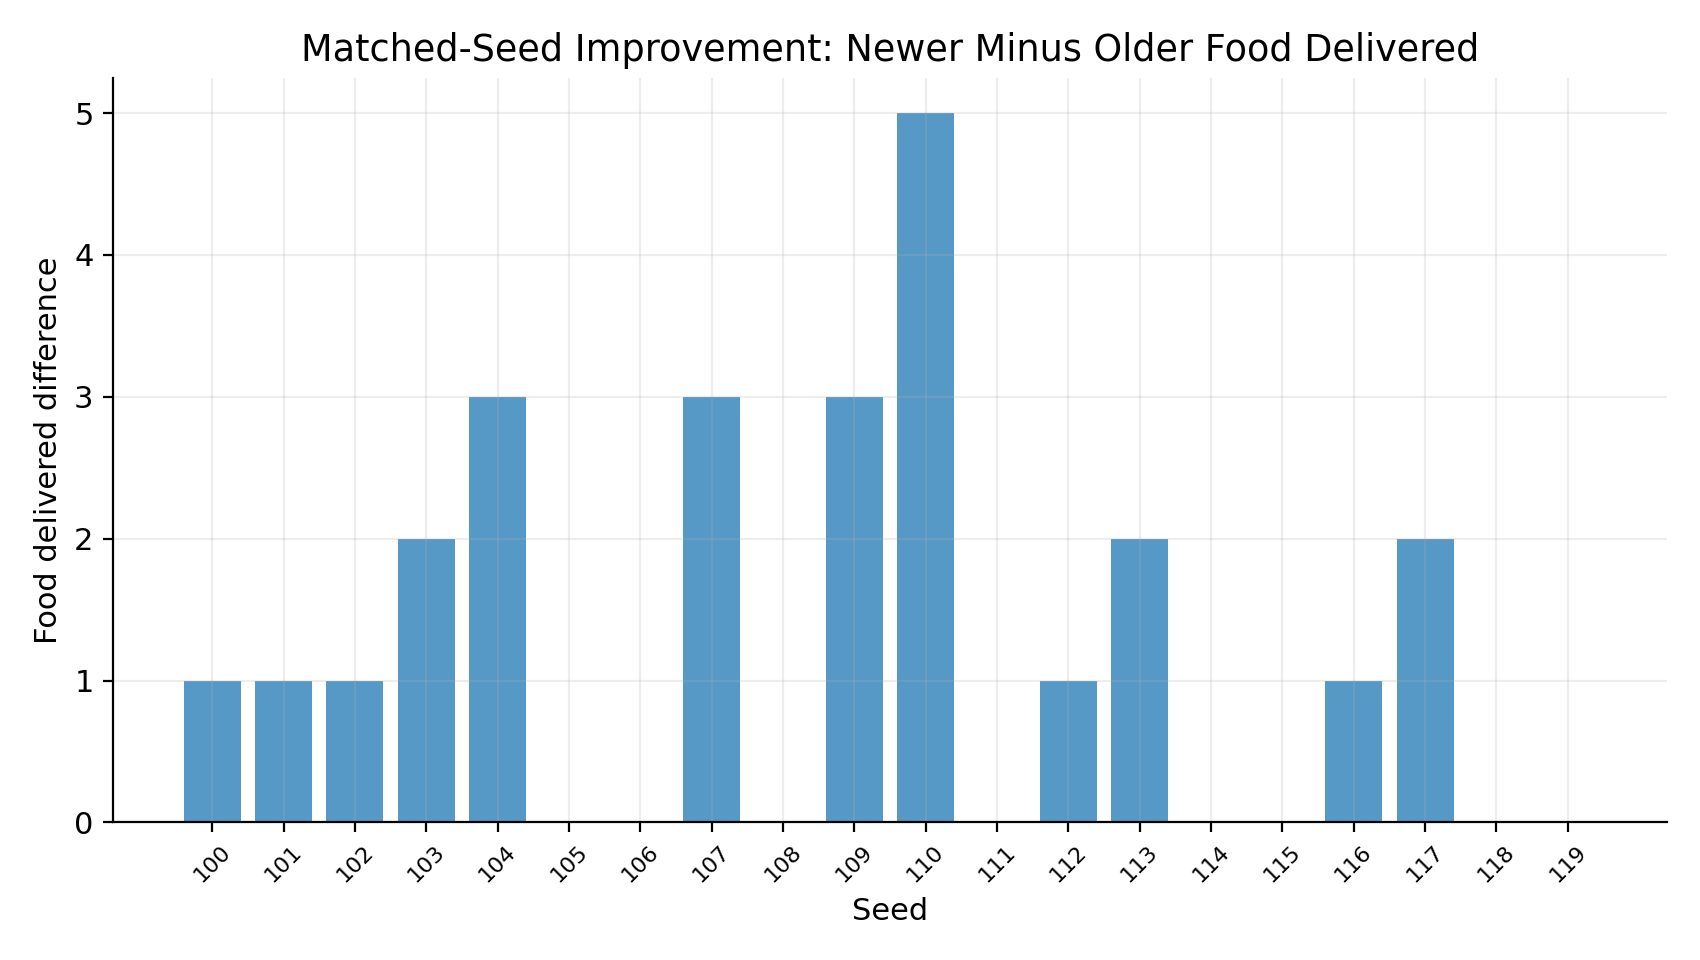
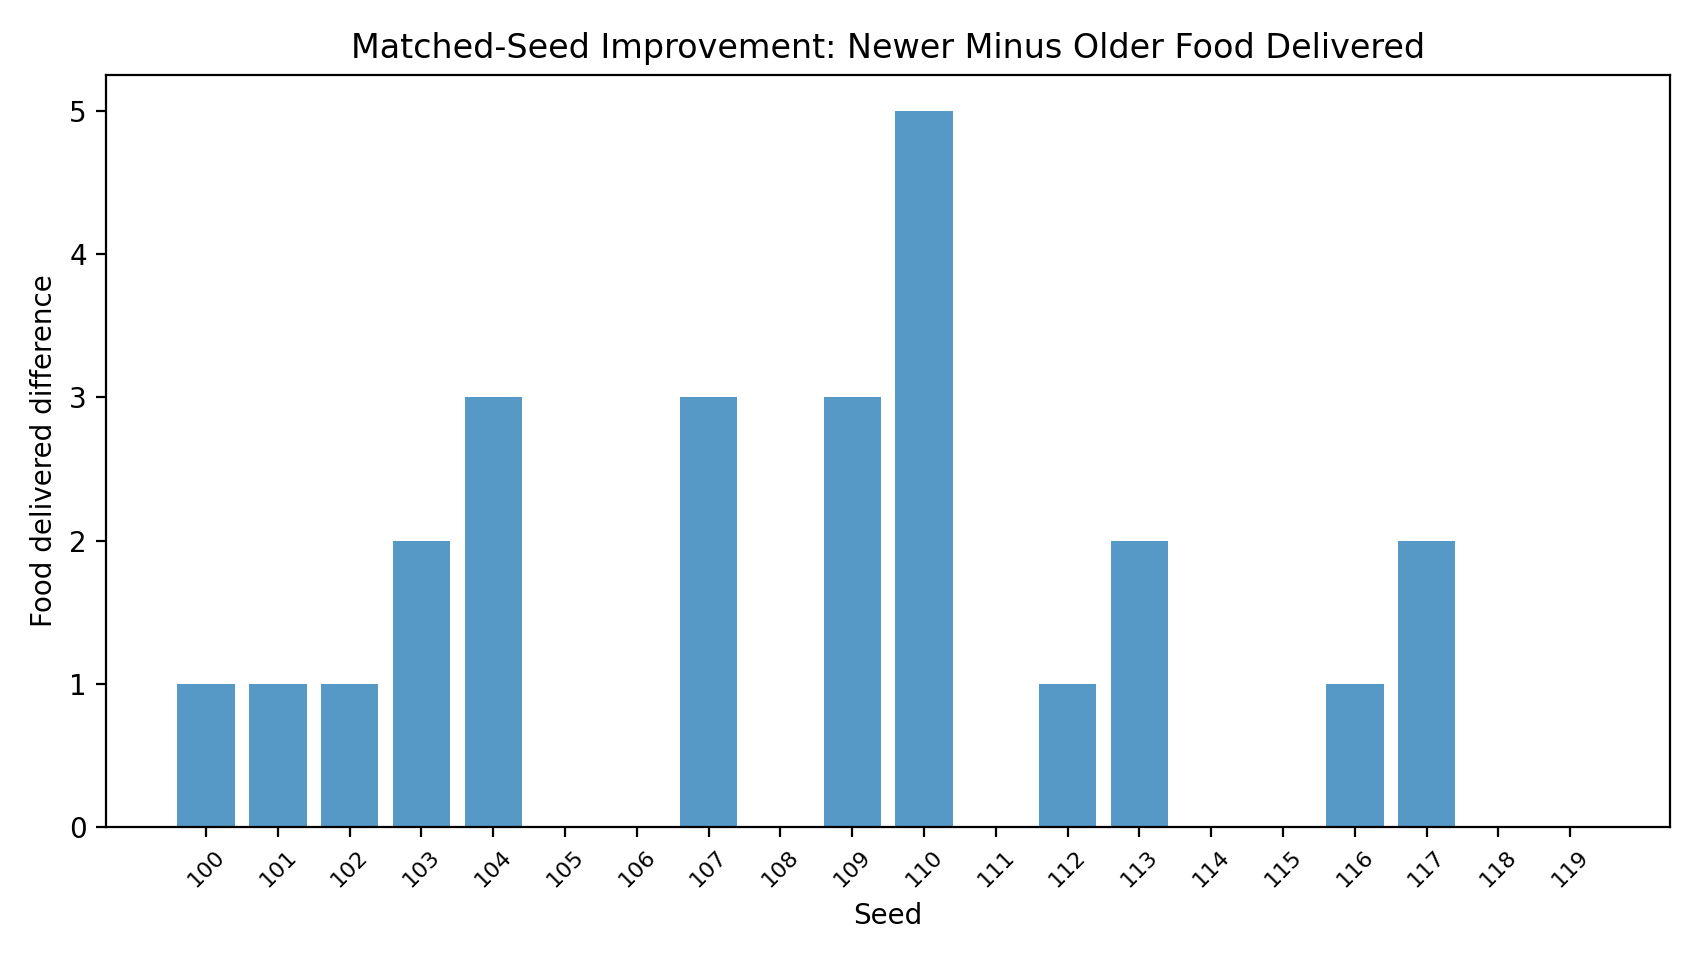
Done.
I added a persistent generator at docs/cwsf2026/opb/what/slide_1_curriculum_learning/generate_curriculum_plots.py and generated the new board-ready plot:

  - docs/cwsf2026/opb/what/slide_1_curriculum_learning/curriculum_food_delivered_delta_by_trial_improved.png

  Backward compatibility is preserved:

  - the script still regenerates docs/cwsf2026/opb/what/slide_1_curriculum_learning/curriculum_food_delivered_delta_by_seed.png

  Exact regenerate command:

  MPLCONFIGDIR=/tmp/matplotlib ./.venv/bin/python docs/cwsf2026/opb/what/slide_1_curriculum_learning/generate_curriculum_plots.py

  One technical note: the saved 102744 broad table reports a Welch t-test p-value, not a paired-test p-value, so the annotation uses the reported p = 0.000828 from the archived stats table rather than
  inventing a new statistic.

Changed region(s): [[0.0, 0.0312, 0.9976, 0.9688], [0.7794, 0.6875, 0.8106, 0.7188], [0.0935, 0.9062, 0.1247, 0.9375]]

diff --git a/docs/cwsf2026/opb/what/slide_1_curriculum_learning/generate_curriculum_plots.py b/docs/cwsf2026/opb/what/slide_1_curriculum_learning/generate_curriculum_plots.py
@@ -1,0 +1,188 @@
+from __future__ import annotations
+
+from pathlib import Path
+import csv
+import math
+
+import matplotlib
+
+matplotlib.use("Agg")
+import matplotlib.pyplot as plt
+
+
+ROOT = Path(__file__).resolve().parents[5]
+RAW_EXPORT = ROOT / "docs/gvrsf2026/experiments/20260406_102744/raw_exports/all_episode_results.csv"
+STATS_CSV = ROOT / "docs/gvrsf2026/experiments/20260406_102744/tables/statistical_tests.csv"
+OUT_DIR = Path(__file__).resolve().parent
+
+CURRENT = "current_curriculum_final"
+OLDER = "older_weaker_curriculum_final"
+FAMILY = "curriculum_vs_weaker_training"
+
+
+def load_curriculum_rows() -> list[dict[str, str]]:
+    with RAW_EXPORT.open(newline="", encoding="utf-8") as f:
+        rows = list(csv.DictReader(f))
+    return [r for r in rows if r["family"] == FAMILY and r["condition"] in {CURRENT, OLDER}]
+
+
+def build_matched_trials(rows: list[dict[str, str]]) -> list[dict[str, float]]:
+    by_seed: dict[int, dict[str, dict[str, str]]] = {}
+    for row in rows:
+        seed = int(row["seed"])
+        by_seed.setdefault(seed, {})[row["condition"]] = row
+
+    trials: list[dict[str, float]] = []
+    for idx, seed in enumerate(sorted(by_seed), start=1):
+        pair = by_seed[seed]
+        if CURRENT not in pair or OLDER not in pair:
+            continue
+        newer = float(pair[CURRENT]["food_delivered"])
+        older = float(pair[OLDER]["food_delivered"])
+        trials.append(
+            {
+                "trial": idx,
+                "seed": seed,
+                "newer": newer,
+                "older": older,
+                "delta": newer - older,
+            }
+        )
+    return trials
+
+
+def load_reported_curriculum_pvalue() -> float | None:
+    with STATS_CSV.open(newline="", encoding="utf-8") as f:
+        for row in csv.DictReader(f):
+            if (
+                row["family"] == FAMILY
+                and row["condition_a"] == CURRENT
+                and row["condition_b"] == OLDER
+                and row["metric"] == "food_delivered"
+            ):
+                return float(row["p_value"])
+    return None
+
+
+def generate_original_delta_by_seed(trials: list[dict[str, float]]) -> Path:
+    fig, ax = plt.subplots(figsize=(8.5, 4.8))
+    ax.axhline(0, color="black", linewidth=1)
+    ax.bar(
+        [str(int(t["seed"])) for t in trials],
+        [t["delta"] for t in trials],
+        color="#2C7FB8",
+        alpha=0.8,
+    )
+    ax.set_ylabel("Food delivered difference")
+    ax.set_xlabel("Seed")
+    ax.set_title("Matched-Seed Improvement: Newer Minus Older Food Delivered")
+    for label in ax.get_xticklabels():
+        label.set_rotation(45)
+        label.set_fontsize(8)
+    fig.tight_layout()
+    out = OUT_DIR / "curriculum_food_delivered_delta_by_seed.png"
+    fig.savefig(out, dpi=200)
+    plt.close(fig)
+    return out
+
+
+def generate_improved_delta_by_trial(trials: list[dict[str, float]], p_value: float | None) -> Path:
+    trial_ids = [int(t["trial"]) for t in trials]
+    deltas = [float(t["delta"]) for t in trials]
+    mean_delta = sum(deltas) / len(deltas)
+
+    plt.rcParams.update(
+        {
+            "font.size": 13,
+            "axes.titlesize": 20,
+            "axes.titleweight": "bold",
+            "axes.labelsize": 15,
+            "xtick.labelsize": 12,
+            "ytick.labelsize": 12,
+        }
+    )
+    fig, ax = plt.subplots(figsize=(11, 6.8))
+
+    ax.scatter(trial_ids, deltas, s=90, color="#2C7FB8", edgecolor="white", linewidth=0.8, zorder=3)
+    ax.axhline(0, color="#C62828", linestyle="--", linewidth=2, zorder=1)
+    ax.axhline(mean_delta, color="black", linewidth=2.8, zorder=2)
+
+    ax.set_xlim(0.5, len(trial_ids) + 0.5)
+    ymin = min(min(deltas), 0.0)
+    ymax = max(max(deltas), mean_delta)
+    pad = max(0.25, 0.12 * (ymax - ymin if ymax > ymin else 1.0))
+    ax.set_ylim(ymin - pad, ymax + pad)
+
+    ax.set_xticks(trial_ids)
+    ax.set_xlabel("Trial")
+    ax.set_ylabel("Food delivered improvement")
+    ax.set_title("Consistent Improvement Across Trials", pad=28)
+    ax.text(
+        0.5,
+        1.02,
+        "New curriculum minus older configuration, evaluated under identical initial conditions",
+        transform=ax.transAxes,
+        ha="center",
+        va="bottom",
+        fontsize=12,
+        color="#444444",
+    )
+
+    ax.grid(True, axis="y", color="#D9D9D9", linewidth=0.8, alpha=0.8)
+    ax.grid(False, axis="x")
+    ax.spines["top"].set_visible(False)
+    ax.spines["right"].set_visible(False)
+
+    right_x = len(trial_ids) + 0.35
+    ax.text(
+        right_x,
+        0,
+        "No improvement",
+        color="#C62828",
+        fontsize=11,
+        va="center",
+        ha="right",
+        backgroundcolor="white",
+    )
+    ax.text(
+        right_x,
+        mean_delta,
+        f"Mean improvement = {mean_delta:.2f}",
+        color="black",
+        fontsize=11,
+        fontweight="bold",
+        va="bottom",
+        ha="right",
+        backgroundcolor="white",
+    )
+
+    p_text = f"Reported Welch's t-test p = {p_value:.6f}" if p_value is not None else "Reported p-value unavailable"
+    annotation = "All positive values indicate improvement\n" + p_text
+    ax.text(
+        0.02,
+        0.97,
+        annotation,
+        transform=ax.transAxes,
+        ha="left",
+        va="top",
+        fontsize=12,
+        bbox={"facecolor": "white", "edgecolor": "#CFCFCF", "boxstyle": "round,pad=0.45"},
+    )
+
+    fig.tight_layout()
+    out = OUT_DIR / "curriculum_food_delivered_delta_by_trial_improved.png"
+    fig.savefig(out, dpi=300, bbox_inches="tight")
+    plt.close(fig)
+    return out
+
+
+def main() -> None:
+    rows = load_curriculum_rows()
+    trials = build_matched_trials(rows)
+    p_value = load_reported_curriculum_pvalue()
+    generate_original_delta_by_seed(trials)
+    generate_improved_delta_by_trial(trials, p_value)
+
+
+if __name__ == "__main__":
+    main()

diff --git a/docs/PROJECT_LOG.md b/docs/PROJECT_LOG.md
@@ -538,3 +538,4 @@ Use this file to capture decisions, open questions, and next steps so we can res
 - Copied the existing `20260406_102744` curriculum-learning figures into [docs/cwsf2026/opb/what/slide_1_curriculum_learning](../docs/cwsf2026/opb/what/slide_1_curriculum_learning) for direct use in the online board / slide materials, preserving the archived originals.
 - Added a clarification that the `102744` curriculum raw data can support additional derived plots such as pickup-vs-delivery comparisons, per-seed spread plots, delivery-latency comparisons, exploration-coverage comparisons, and paired seed-by-seed curriculum comparisons without rerunning the experiment.
 - Generated additional curriculum-learning plots from the saved `20260406_102744` broad raw export into [docs/cwsf2026/opb/what/slide_1_curriculum_learning](../docs/cwsf2026/opb/what/slide_1_curriculum_learning), including grouped pickup-vs-delivery and loop-completion charts, spread plots for delivered/picked-up/conversion/exploration/discovery timing, matched-seed paired comparisons, and a per-seed delivered improvement chart.
+- Added a persistent board-specific curriculum plot generator at [docs/cwsf2026/opb/what/slide_1_curriculum_learning/generate_curriculum_plots.py](../docs/cwsf2026/opb/what/slide_1_curriculum_learning/generate_curriculum_plots.py), preserving regeneration of the original seed-based delta plot and adding a new board-ready scatter plot [curriculum_food_delivered_delta_by_trial_improved.png](../docs/cwsf2026/opb/what/slide_1_curriculum_learning/curriculum_food_delivered_delta_by_trial_improved.png) with trial-based x-axis, no-improvement reference line, mean-improvement line, and reported p-value annotation.

diff --git a/docs/QandA.md b/docs/QandA.md
@@ -1153,3 +1153,6 @@ A: Yes. The saved raw episode data and summary tables are sufficient to generate
 
 ## Q: Can the additional curriculum-learning plots for the `102744` data be generated into the CWSF board folder?
 A: Yes. Additional curriculum-learning plots were generated into `docs/cwsf2026/opb/what/slide_1_curriculum_learning` from the saved `20260406_102744` raw broad export. The generated set includes grouped comparisons for pickups vs deliveries and loop completion, box plots for food delivered, food picked up, delivery conversion, exploration coverage, and time to first discovery, plus matched-seed paired plots and a per-seed delivered delta plot. The broad raw export did not include per-episode `first_delivery_step` or `pickup_to_delivery_latency`, so those specific plots were not generated from the raw file.
+
+## Q: Was the `curriculum_food_delivered_delta_by_seed.png` plot given a more board-friendly version?
+A: Yes. A persistent generator script was added at `docs/cwsf2026/opb/what/slide_1_curriculum_learning/generate_curriculum_plots.py`. It preserves backward compatibility by still regenerating `curriculum_food_delivered_delta_by_seed.png`, and it now also generates a cleaner judge-facing scatter plot `curriculum_food_delivered_delta_by_trial_improved.png`. The improved version uses trial numbers instead of seeds on the x-axis, plots per-trial food-delivered improvement under matched initial conditions, marks `y = 0` as “No improvement,” shows a bold mean-improvement line, and annotates the figure with the “all positive values indicate improvement” note plus the reported curriculum p-value from the saved `102744` statistics table.
